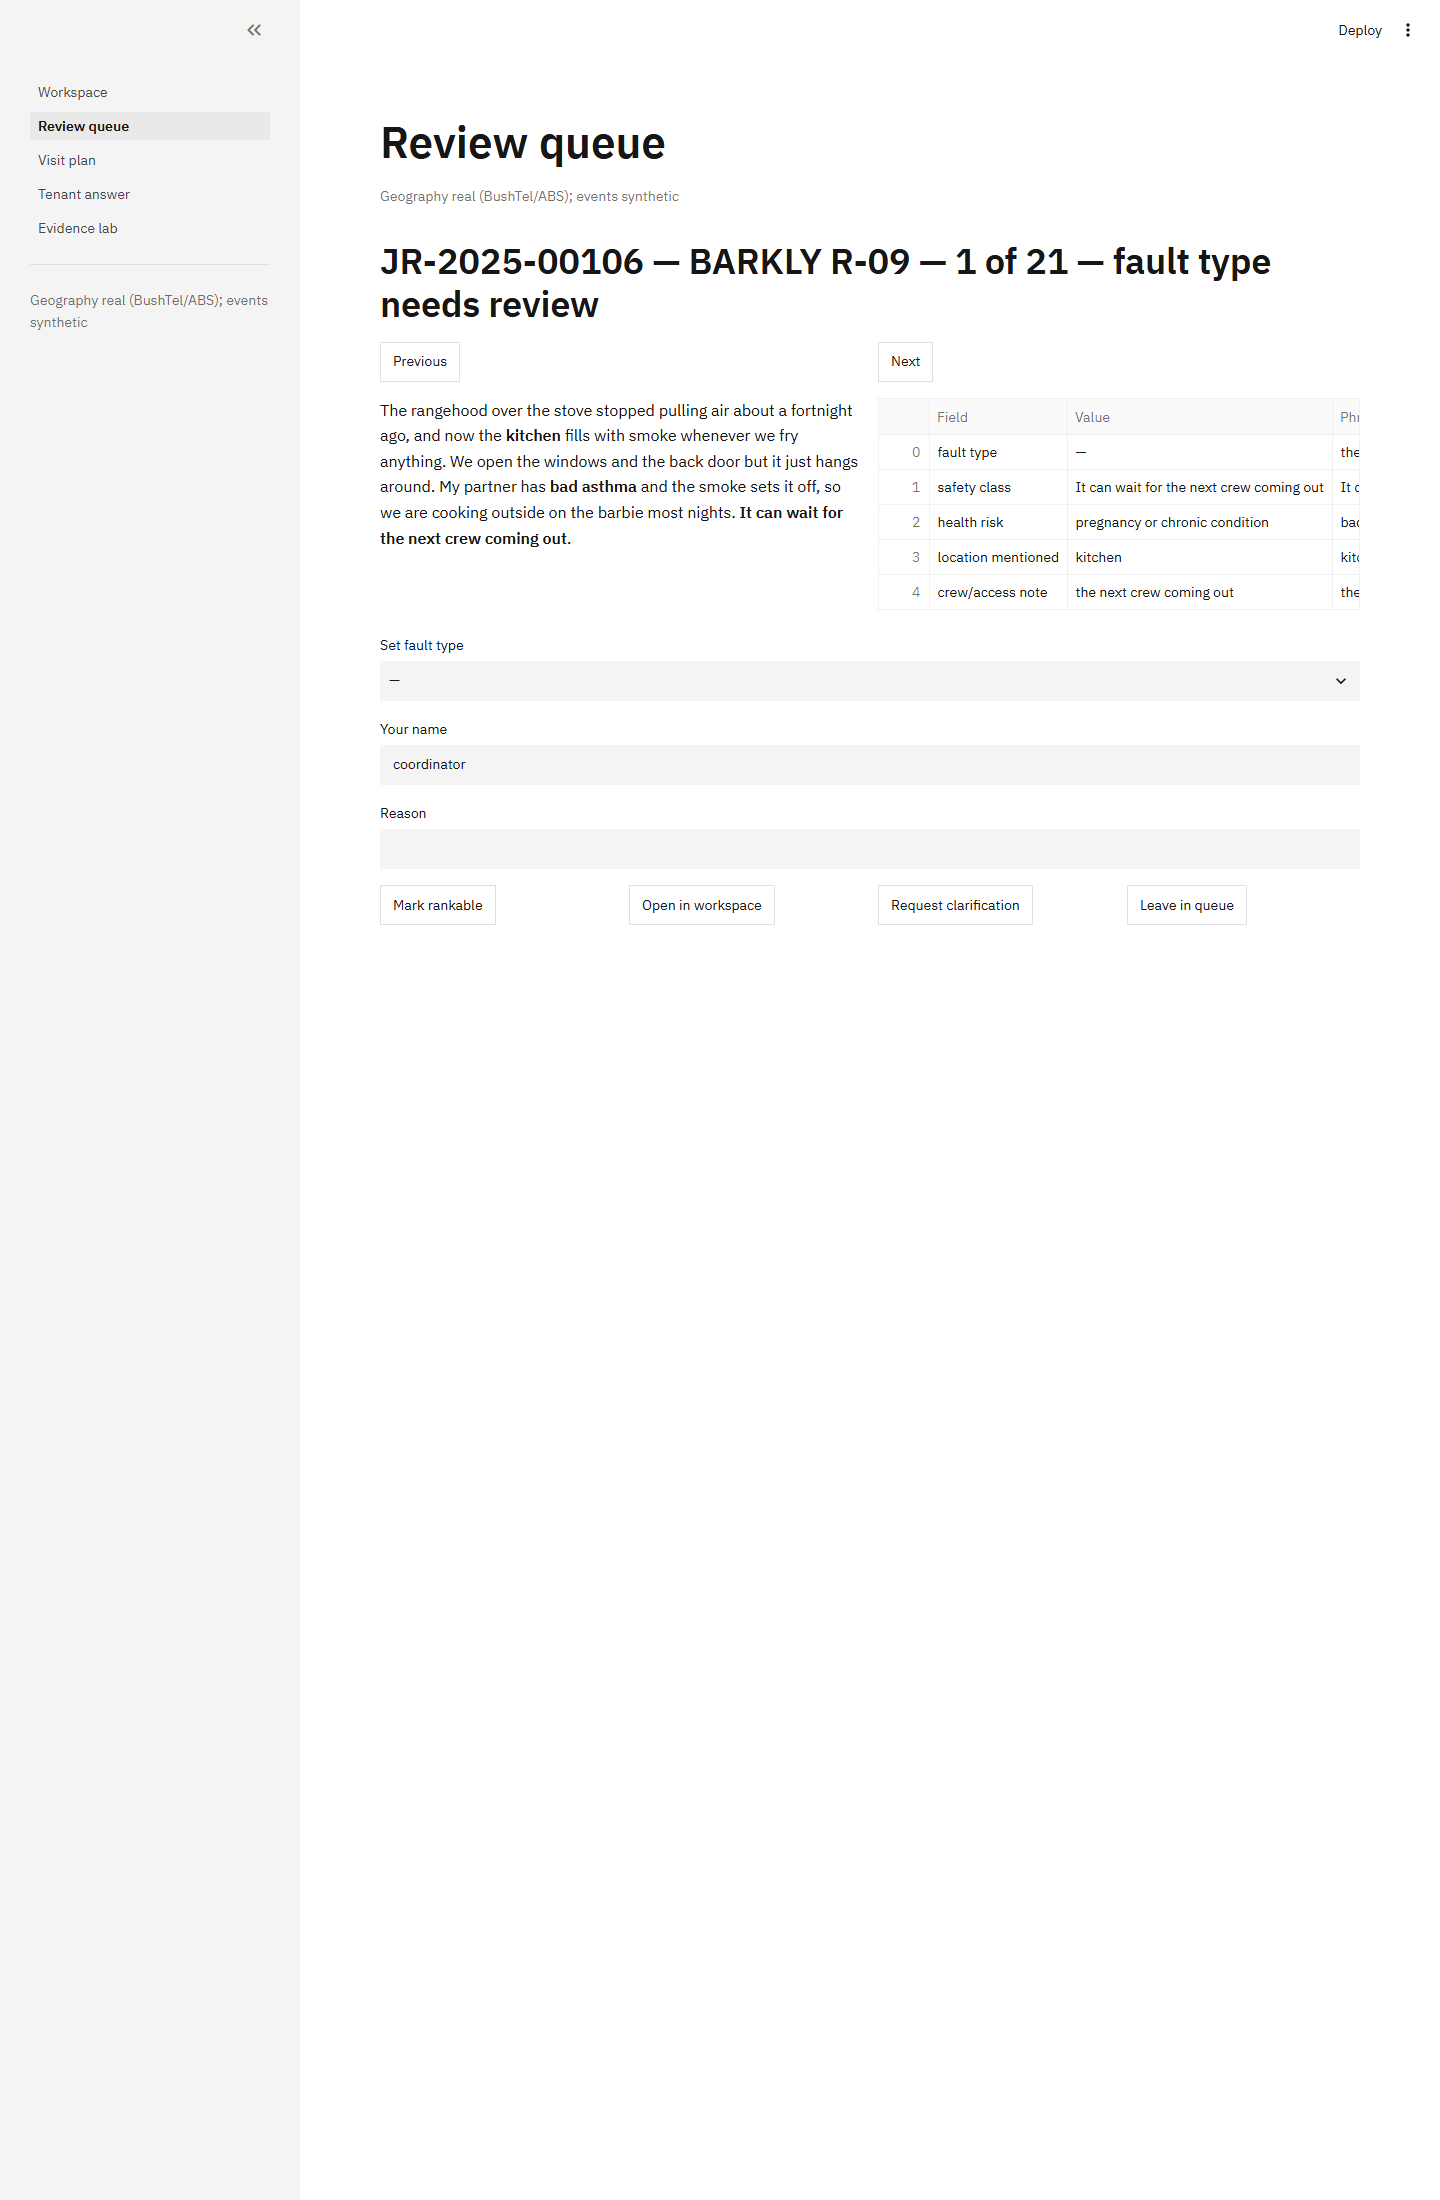
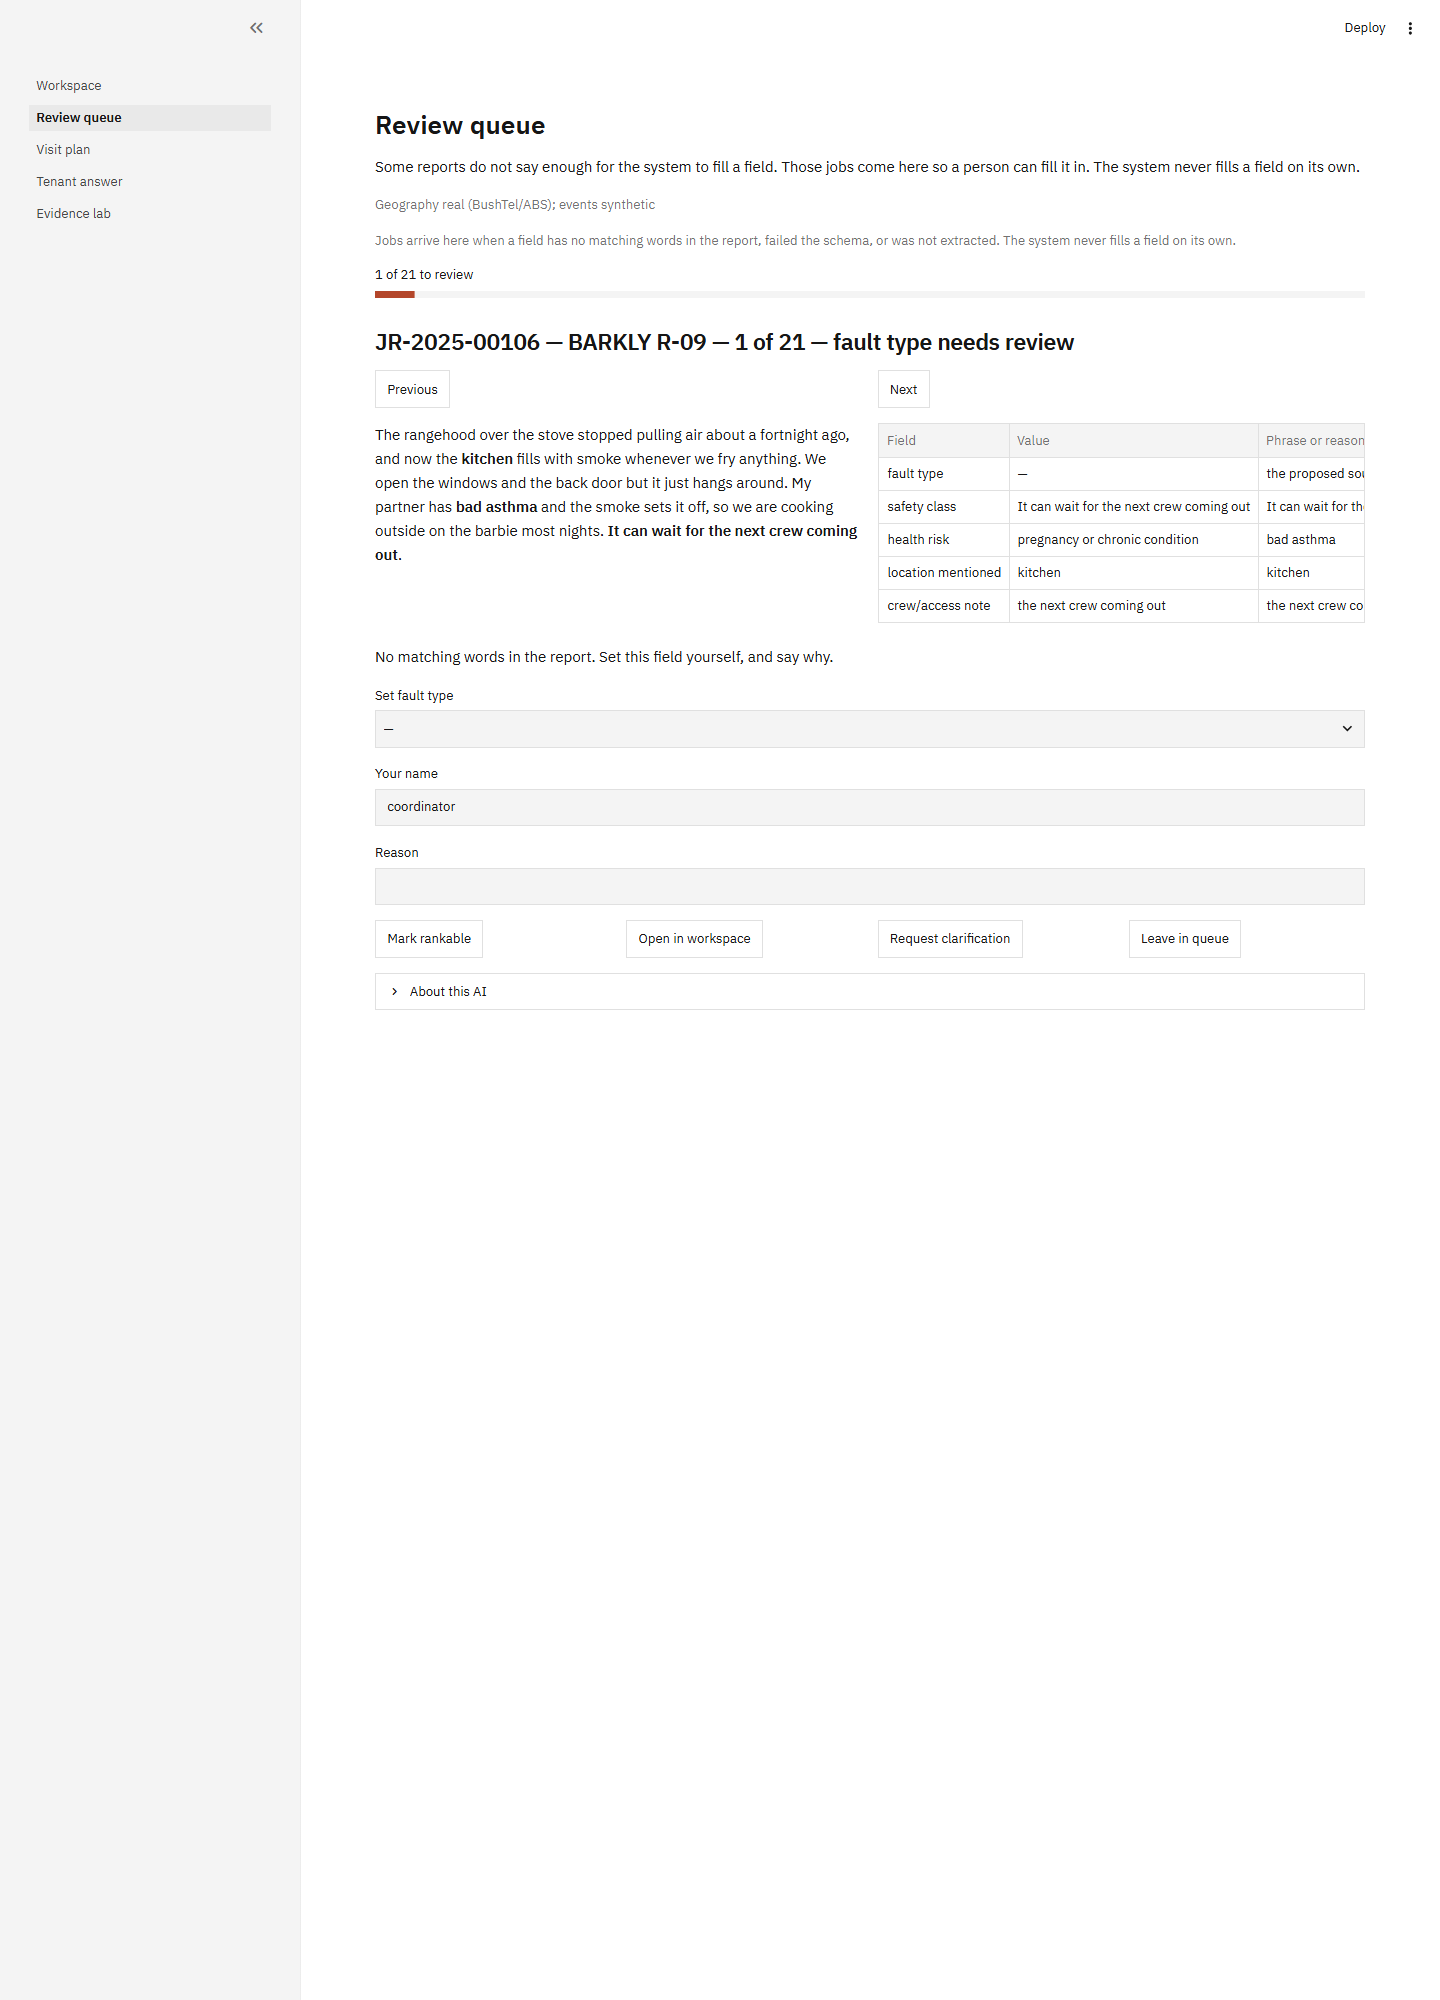
Record the presentation wave in BACKLOG and refresh screenshots

diff --git a/BACKLOG.md b/BACKLOG.md
@@ -64,3 +64,9 @@ word-based (non-semantic) limits.
 2026-09-14 REVIEWED, KEPT - Task-27 - Keep the provisional 0.55 policy threshold for the prototype. The committed artefact has only three distinct passages across 53 retained slots: the response-time passage appears anywhere for 22 keys, while a wear-and-tear passage is top-1 for 25 keys. Lowering the threshold would admit more weak matches and raising it would remove most results; do not claim retrieval quality until the typed queries or corpus chunking are improved and re-evaluated.
 
 2026-09-14 - `review-visual` over Tasks 22-35 (main loop, Playwright captures in `design/screenshots/`, Phase 1 captures removed) - Build defects against wireframes §3: the ranked table shows only rank, change, job id, community and fault type at 1440 px; safety class, window, score and the factor bar sit behind a horizontal scroll, so the row carries none of the "why" the wireframe puts in it. Markers at NT zoom are 1-3 px (`radius_min_pixels` unset) and a town marker opens a list of 16 buttons in the pane instead of a compact chooser. The score bar column renders as a number, not a stacked bar. The sidebar repeats the provenance caption twice. Not covered by the wireframes: nothing on any surface says what the tool is for or what the coordinator should do first; the workspace opens with an empty pane and "Select a job"; the visit plan and tenant answer open as a one-line refusal with no picture of what they will show. The tenant page title reads "Tenant view" while the nav says "Tenant answer". Cold-opening `http://localhost:8765/workspace` before `/` raises `ModuleNotFoundError: fair_turn` because Streamlit's URL routing runs the page file before `main.py`'s sys.path shim; the README's root URL works.
+
+2026-09-14 RESOLVED - `review-visual` findings above - Tasks 37-42 and 44 (presentation wave, Codex bees, all on main by 8adbc2e): pixel markers, compact map chooser, full-row column config with decision columns first, auto-selected top job, pill filters, government chrome through theme keys plus one `theme.css`, purpose line and About expander on every page, refusal states with previews, tenant examples, review-queue progress and rule, KPI row, locked outcome box, summary-list pane with badges, Evidence lab tiles. Still open from that review: at 1440 px the Factors, Community and Fault columns sit behind a horizontal scroll (they fit at 1920 px, the likely demo screen); the map's top-end markers overlap at NT zoom (max 14 px), zoom one step to separate them.
+2026-09-14 - presentation research (`reports/research-ui-dispatch-products-2026-09-14.md` rec. 9) - A deferred remote job carries no return date, only a lower rank; ServiceM8 queues expire and Linear snoozes return. Needs a PRD change (scoring/backlog semantics), so not built; Tarik's call.
+2026-09-14 - PRD open question 7 - WCAG 2.1 versus 2.2 AA as the claimed target; the DTA page needs a human read. Until then the report says "designed against WCAG 2.1 AA".
+2026-09-14 - Task-22 - `tests/test_workspace_components.py` asserts only that the deck proto carries a `selection_mode`, not that it is single-object; a mutation to multi-object stays green. Matches the DoD wording; tighten if the selection mode ever matters to a test.
+2026-09-14 - orchestration - The Codex sandbox leaves ACL-locked `.pytest_cache` folders in lane worktrees and once locked `%TEMP%\pytest-of-TARIK`, which turned every gate on the machine red; `codex-bee.ps1` now points TMPDIR at a lane folder and `integrate.sh` gives the main gate its own temp root. Locked leftovers under `.lanes/fair-turn/task-*` need `takeown` from an elevated shell.
